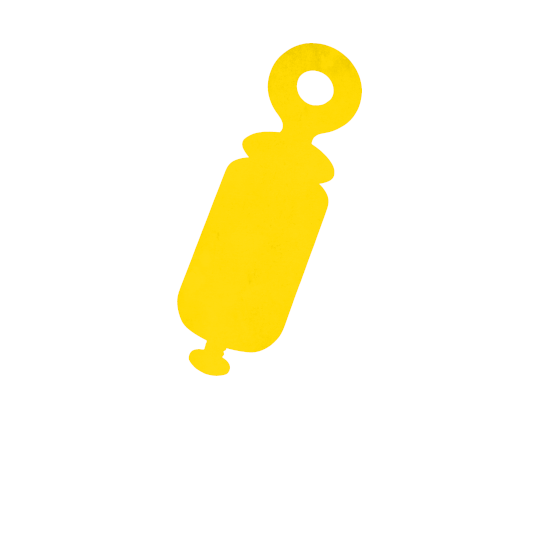
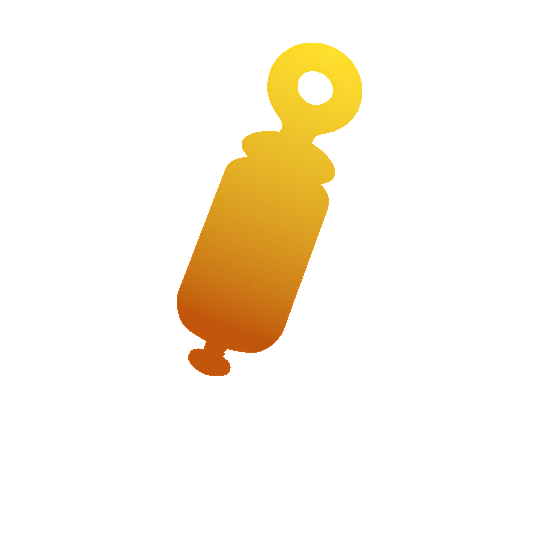
Add token for Badelynge Fabled (and adjust Bird Call Fabled token colors.)

Changed region(s): [[0.3265, 0.0594, 0.6827, 0.7124]]

diff --git a/README.md b/README.md
@@ -6,7 +6,7 @@
 
 Icon | Character | Text
 --- | --- | ---
-(coming soon) | Badelynge | Each day, 3 players may publicly say ‘quack’.
+![Badelynge](https://raw.githubusercontent.com/enthusiastick/unkindness/main/img/scaled/badelynge.png) | Badelynge | Each day, 3 players may publicly say ‘quack’.
 ![Bird Calls](https://raw.githubusercontent.com/enthusiastick/unkindness/main/img/scaled/birdcalls.png) | Bird Calls | Players making public declarations are not required to openly specify as what character they are declaring.
 
 ### Townsfolk
